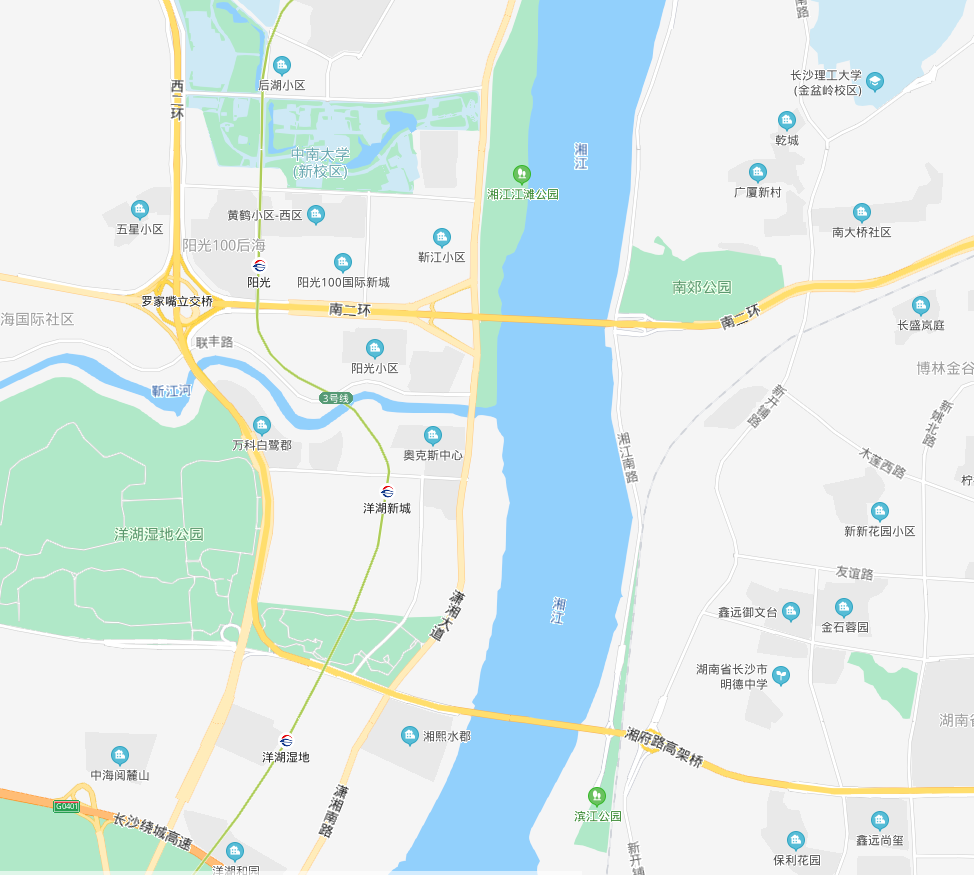
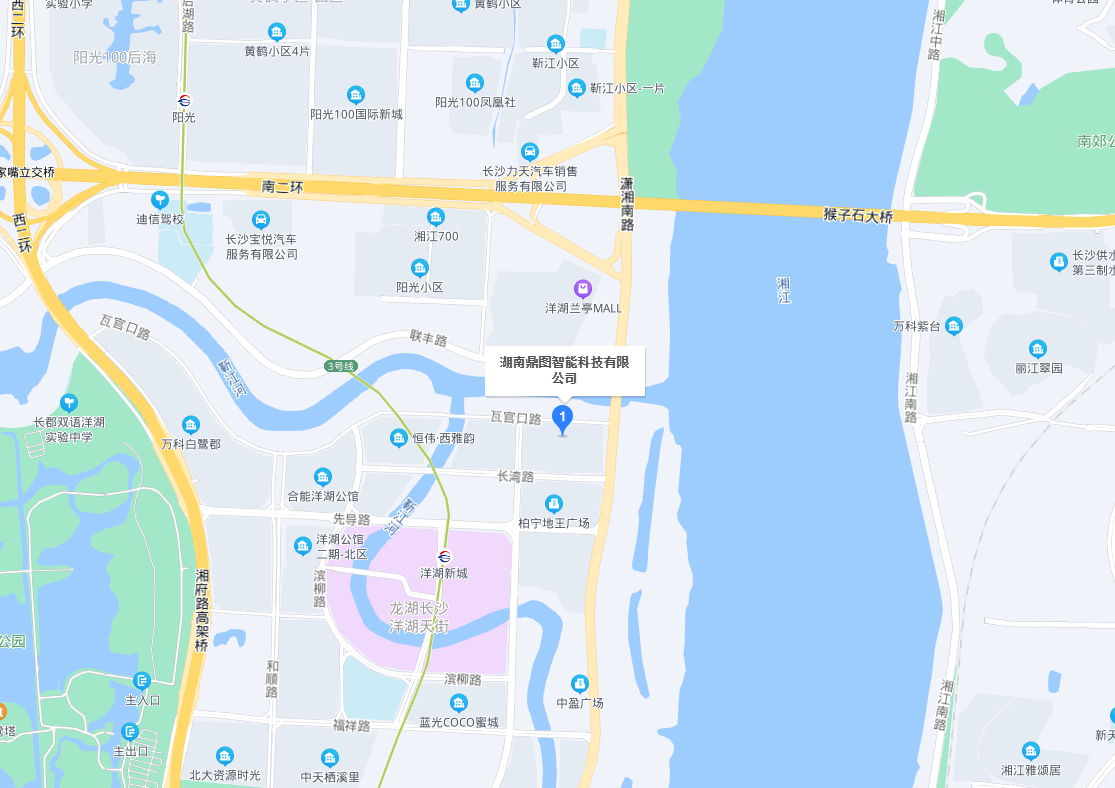
修改完毕。正式发布。

diff --git a/src/views/Home.vue b/src/views/Home.vue
@@ -54,66 +54,87 @@
       </div>
       <div class="solutionContainer" id="solution">
         <div class="solutionText">行业解决方案</div>
+        <img class="seperatorImg" src="../assets/img1.png" />
         <div class="solutionItemContainer">
           <div class="solutionItem">
-            <div class="solutionItemText">轨道交通</div>
-            <img src="../assets/solution_01.png" />
+            <img class="solutionImg" src="../assets/jjfa1.jpg" />
+            <div class="solutionInnerContainer">
+              <img class="solutionItemIcon" src="../assets/icon1.png" />
+              <div class="solutionItemText">轨道交通</div>
+            </div>
           </div>
           <div class="solutionItem">
-            <div class="solutionItemText">海洋</div>
-            <img src="../assets/solution_02.png" />
+            <img class="solutionImg" src="../assets/jjfa2.jpg" />
+            <div class="solutionInnerContainer">
+              <img class="solutionItemIcon" src="../assets/icon2.png" />
+              <div class="solutionItemText">海洋</div>
+            </div>
           </div>
           <div class="solutionItem">
-            <div class="solutionItemText">医学</div>
-            <img src="../assets/solution_03.png" />
+            <img class="solutionImg" src="../assets/jjfa3.jpg" />
+            <div class="solutionInnerContainer">
+              <img class="solutionItemIcon" src="../assets/icon3.png" />
+              <div class="solutionItemText">医学</div>
+            </div>
           </div>
           <div class="solutionItem">
-            <div class="solutionItemText">教育教学</div>
-            <img src="../assets/solution_04.png" />
+            <img class="solutionImg" src="../assets/jjfa4.jpg" />
+            <div class="solutionInnerContainer">
+              <img class="solutionItemIcon" src="../assets/icon4.png" />
+              <div class="solutionItemText">教育教学</div>
+            </div>
           </div>
           <div class="solutionItem">
-            <div class="solutionItemText">材料成型</div>
-            <img src="../assets/solution_05.png" />
+            <img class="solutionImg" src="../assets/jjfa5.jpg" />
+            <div class="solutionInnerContainer">
+              <img class="solutionItemIcon" src="../assets/icon5.png" />
+              <div class="solutionItemText">材料成型</div>
+            </div>
           </div>
           <div class="solutionItem">
-            <div class="solutionItemText">软件开发</div>
-            <img src="../assets/solution_06.png" />
+            <img class="solutionImg" src="../assets/jjfa6.jpg" />
+            <div class="solutionInnerContainer">
+              <img class="solutionItemIcon" src="../assets/icon6.png" />
+              <div class="solutionItemText">软件开发</div>
+            </div>
           </div>
         </div>
         <a href="/#contact" class="topButton">立即实践</a>
       </div>
       <div class="productContainer" id="product">
         <div class="productText">产品和服务</div>
+        <img class="seperatorImg" src="../assets/img2.png" />
         <div class="productItemContainer">
           <div class="productItem">
+            <img src="../assets/cpfw1.jpg" />
             <div class="productItemText">虚拟现实仿真软件开发</div>
-            <img src="../assets/product-1.jpeg" />
           </div>
           <div class="productItem">
+            <img src="../assets/cpfw2.jpg" />
             <div class="productItemText">智能制造及轻量化设计</div>
-            <img src="../assets/product-2.png" />
           </div>
           <div class="productItem">
+            <img src="../assets/cpfw3.jpg" />
             <div class="productItemText">高性能计算系统集成与服务</div>
-            <img src="../assets/product-3.jpeg" />
           </div>
           <div class="productItem">
+            <img src="../assets/cpfw4.jpg" />
             <div class="productItemText">图像处理与数据分析</div>
-            <img src="../assets/product-4.jpeg" />
           </div>
           <div class="productItem">
+            <img src="../assets/cpfw5.jpg" />
             <div class="productItemText">三维产品设计及可视化</div>
-            <img src="../assets/product-5.png" />
           </div>
           <div class="productItem">
+            <img src="../assets/cpfw6.jpg" />
             <div class="productItemText">数字孪生系统开发及咨询服务</div>
-            <img src="../assets/product-6.jpeg" />
           </div>
         </div>
         <a href="/#contact" class="topButton">我想进一步了解。</a>
       </div>
       <div class="caseContainer" id="case">
         <div class="caseText">应用案例</div>
+        <img class="seperatorImg" src="../assets/img3.png" />
         <div class="caseItemContainer">
           <Carousel :settings="settings" :breakpoints="breakpoints">
             <Slide v-for="cs in cases" :key="cs.url">
@@ -125,7 +146,9 @@
             </template>
           </Carousel>
         </div>
-        <a href="/#contact" class="topButton">我想获取更多成功应用案例资料。</a>
+        <a href="/#contact" class="topButtonMinor"
+          >获取更多成功案例资料。</a
+        >
       </div>
 
       <div class="contactContainer" id="contact">
@@ -145,7 +168,7 @@
             </div>
           </div>
           <div class="contactItemMap">
-            <img src="../assets/map_location.png" />
+            <img src="../assets/map_location-m.png" />
           </div>
         </div>
       </div>
@@ -169,6 +192,8 @@ import "vue3-carousel/dist/carousel.css";
 import case11 from "@/assets/case-1-1.jpg";
 import case12 from "@/assets/case-1-2.jpg";
 import case13 from "@/assets/case-1-3.jpg";
+import case14 from "@/assets/case-1-4.jpg";
+import case15 from "@/assets/case-1-5.jpg";
 import case21 from "@/assets/case-2-1.jpg";
 import case22 from "@/assets/case-2-2.jpg";
 import case31 from "@/assets/case-3-1.jpg";
@@ -189,13 +214,22 @@ export default class Home extends Vue {
   isModalMaskHidden = true;
   data() {
     return {
-      cases: [{ url: case11 }, { url: case12 }, { url: case13 }],
+      cases: [
+        { url: case11 },
+        { url: case12 },
+        { url: case13 },
+        { url: case14 },
+        { url: case15 },
+        { url: case21 },
+        { url: case22 },
+        { url: case31 },
+      ],
       // carousel settings
       settings: {
         itemsToShow: 1,
         autoplay: 2000,
         snapAlign: "center",
-        wrapAround: true
+        wrapAround: true,
       },
       // breakpoints are mobile first
       // any settings not specified will fallback to the carousel settings
@@ -405,9 +439,12 @@ ul {
 }
 .introductionContainer {
   width: 100vw;
-  height: calc(100vh + 50px);
+  //height: calc(100vh + 50px);
+  @media (min-width: 800px) {
+    height: 100vh;
+  }
   margin-top: -50px;
-  background-image: url("../assets/big-img-1-m.jpg");
+  background-image: url("../assets/banner2.jpg");
   background-size: cover;
   background-position: center;
   //background-attachment: fixed;
@@ -448,12 +485,18 @@ ul {
     }
   }
 }
+.seperatorImg {
+  margin: 0vh 0px 5vh;
+}
 .solutionContainer {
   display: flex;
   flex-direction: column;
   align-items: center;
+  @media (min-width: 800px) {
+    height: 100vh;
+  }
   .solutionText {
-    margin: 10vh 0px;
+    margin: 7vh 0px 3vh;
     width: 90%;
     font-size: 3rem;
     text-align: center;
@@ -463,23 +506,46 @@ ul {
     flex-flow: wrap;
     width: 75%;
     .solutionItem {
-      width: 100%;
+      position: relative;
+      width: 50%;
       display: flex;
       flex-direction: column;
       justify-content: space-between;
       align-items: center;
+      padding: 15px 5px;
       @media (min-width: 800px) {
         width: 33%;
       }
-      .solutionItemText {
+      .solutionImg {
+        margin: 0;
         width: 90%;
-        font-size: 2rem;
-        text-align: center;
+        width: 90%;
+        @media (min-width: 800px) {
+          width: 100%;
+        }
       }
-      img {
-        width: 110px;
-        height: 110px;
-        margin: 20px 20px 40px 20px;
+      .solutionInnerContainer {
+        position: absolute;
+        width: 100%;
+        height: 60%;
+        top: 20%;
+        display: flex;
+        flex-direction: column;
+        justify-content: space-around;
+        align-items: center;
+        .solutionItemIcon {
+          width: 60px;
+          height: 60px;
+          @media (min-width: 800px) {
+            width: 80px;
+            height: 80px;
+          }
+        }
+        .solutionItemText {
+          color: white;
+          font-size: 1rem;
+          text-align: center;
+        }
       }
     }
   }
@@ -506,11 +572,14 @@ ul {
   display: flex;
   flex-direction: column;
   align-items: center;
-  background-image: url("../assets/big-img-2.png");
+  background-image: url("../assets/bg1.jpg");
   background-size: cover;
   color: white;
+  @media (min-width: 800px) {
+    height: 100vh;
+  }
   .productText {
-    margin: 10vh 0px;
+    margin: 7vh 0px 3vh;
     width: 90%;
     font-size: 3rem;
     text-align: center;
@@ -529,13 +598,15 @@ ul {
       }
       .productItemText {
         width: 90%;
-        font-size: 2rem;
+        font-size: 1rem;
         text-align: center;
+        margin: 0px;
       }
       img {
-        width: 300px;
-        height: 150px;
-        margin: 20px 20px 40px 20px;
+        width: 200px;
+        //height: 150px;
+        margin: 20px 20px 10px 20px;
+        border-radius: 100px;
       }
     }
   }
@@ -562,16 +633,20 @@ ul {
   display: flex;
   flex-direction: column;
   align-items: center;
+
   .caseText {
-    margin: 10vh 0px;
+    margin: 5vh 0px 3vh;
     width: 90%;
     font-size: 3rem;
     text-align: center;
   }
   .caseItemContainer {
-    width: 95%;
+    width: 90%;
     display: flex;
     flex-flow: wrap;
+    @media (min-width: 800px) {
+      width: 100%;
+    }
     .caseItem {
       width: 100%;
       display: flex;
@@ -597,6 +672,24 @@ ul {
     font-size: 2rem;
     text-align: center;
     margin: 10vh 0px;
+    border: 1px solid black;
+    border-radius: 2px;
+    padding-left: 26px;
+    padding-right: 26px;
+    padding-top: 10px;
+    padding-bottom: 10px;
+    text-decoration-line: none;
+    &:hover {
+      background-color: black;
+      color: white;
+    }
+    cursor: pointer;
+  }
+  .topButtonMinor {
+    color: black;
+    font-size: 2rem;
+    text-align: center;
+    margin: 3vh 0px 10vh;
     border: 1px solid black;
     border-radius: 2px;
     padding-left: 26px;
@@ -658,10 +751,10 @@ ul {
         width: 60%;
       }
       img {
-        height: 80vh;
+        //height: 80vh;
         width: 100%;
-        @media (min-width: 800px) {
-          width: 100vh;
+        @media (min-width: 800px) {          
+          content:url("../assets/map_location.png"); 
         }
       }
     }
@@ -714,7 +807,7 @@ ul {
     display: flex;
   }
   .introductionContainer {
-    background-image: url("../assets/big-img-1.jpg");
+    background-image: url("../assets/banner_bg.jpg");
   }
 }
 @media (min-width: 1200px) {
